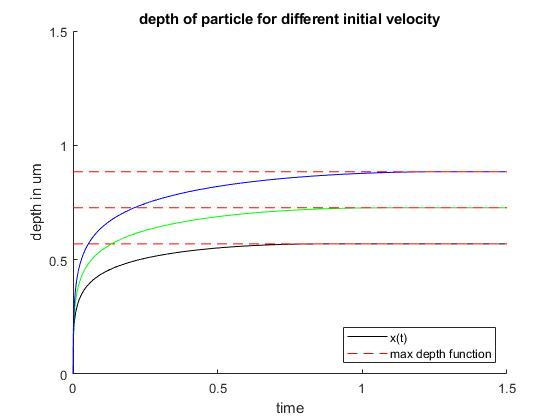
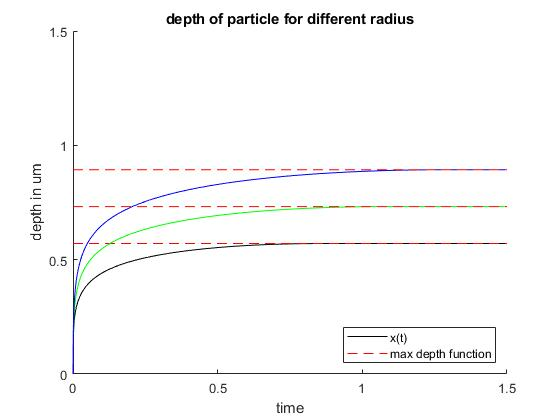
Hopefully the final push

Changed region(s): [[0.1214, 0.4024, 0.9107, 0.7429], [0.2429, 0.031, 0.7893, 0.0619]]

diff --git a/multilayer_models/multilayer_model_deterministic_1p.m b/multilayer_models/multilayer_model_deterministic_1p.m
@@ -14,7 +14,7 @@ ymod_SC = 4; % youngs modulus of stratum corneum in gigapascals
 ymod_VE = 3; % youngs modulus of viable epidermis in gigapascals
 v_0 = 600; % typical entry velocity of particle
 ang = cos(0); % angle of entry 
-r = 2.4074003; % typical particle radius
+r = 1.5; % typical particle radius
 rho_g = 19.32; % density of gold kg/m^3
 c_D = 0.5; % drag coeffecient
 c = 3; % yield constant
@@ -29,52 +29,67 @@ x = zeros(1, length(time));
 pend = 0;
 layer2 = 0;
 
-for i=2:length(time)
-    % check if we are in layer 2
-    if x(i-1) >= depth_SC/100
-         % this is our first entry, so get velocity at this point
-         if layer2 == 0
-            t=i-1;
-            pend = x(i-1);
-            layer2 = 1;
-            v_1 = vel(time(i-1), v_0, rho_g, r, sig_SC, rho_SC, c_D, c);
-            d = pend + max_depth(v_1, rho_g, r, sig_VE, rho_VE, c_D, c, ang);
-         end
-         d_1 = pend + depth(time(i-t), v_1, rho_g, r, sig_VE, rho_VE, c_D, c, ang);
-         if d_1 < x(i-1)
-             x(i) = x(i-1);
-         else
-             x(i) = d_1;
-         end
-    else
-        % in layer 1, so use layer 1 parameters
-        x(i) = depth(time(i), v_0, rho_g, r, sig_SC, rho_SC, c_D, c, ang);
-        if x(i) < x(i-1)
-             x(i) = x(i-1);
-             d = max_depth(v_0, rho_g, r, sig_SC, rho_SC, c_D, c, ang);
+for j=1:3
+    for i=2:length(time)
+        % check if we are in layer 2
+        if x(i-1) >= depth_SC/100
+             % this is our first entry, so get velocity at this point
+             if layer2 == 0
+                t=i-1;
+                pend = x(i-1);
+                layer2 = 1;
+                v_1 = vel(time(i-1), v_0, rho_g, r, sig_SC, rho_SC, c_D, c);
+                d = pend + max_depth(v_1, rho_g, r, sig_VE, rho_VE, c_D, c, ang);
+             end
+             d_1 = pend + depth(time(i-t), v_1, rho_g, r, sig_VE, rho_VE, c_D, c, ang);
+             if d_1 < x(i-1)
+                 x(i) = x(i-1);
+             else
+                 x(i) = d_1;
+             end
+        else
+            % in layer 1, so use layer 1 parameters
+            x(i) = depth(time(i), v_0, rho_g, r, sig_SC, rho_SC, c_D, c, ang);
+            if x(i) < x(i-1)
+                 x(i) = x(i-1);
+                 d = max_depth(v_0, rho_g, r, sig_SC, rho_SC, c_D, c, ang);
+            end
         end
     end
 end
-%{
+d3 = d;
+x3 = x;
+
+%%
+
 hold on
-plot(time, x, '-b')
+test1 = plot(time, x1, '-b')
+test2 = plot(time, x2, '-g')
+test3 = plot(time, x3, '-k')
 hold on
-plotter = ones(1, length(time)) * d;
+plotter1 = ones(1, length(time)) * d1;
+plotter2 = ones(1, length(time)) * d2;
+plotter3 = ones(1, length(time)) * d3;
 depth1 = ones(1, length(time)) * good_depth_upper/100;
 depth2 = ones(1, length(time)) * good_depth_lower/100;
-plot(time, plotter, '--r')
+plot(time, plotter1, '--r')
+plot(time, plotter2, '--r')
+plot(time, plotter3, '--r')
 hold on
-plot(time, depth1, '-g')
-hold on
-plot(time, depth2, '-g')
-title('depth of particle for different initial velocity')
+title('depth of particle for different radius')
 xlabel('time')
 ylabel('depth in um')
-legend('x(t)', 'max depth function', 'Location', 'southeast')
 ylim([0,1.5])
-%}
-good_depth_upper/100 - d
-    
+
+%%
+grid on
+legend([test1, test2, test3], '$v_0 = 400$', '$v_0 = 500$', '$v_0 = 600$','interpreter','latex','FontSize',10);
+title('Depth in the skin where a particle comes to rest','interpreter','latex','FontSize',12)
+xlabel('Time, $t$','interpreter','latex','FontSize',12,'FontWeight', 'bold')
+ylabel('Depth of the skin, $\mu{m}$','interpreter','latex','FontSize',12,'FontWeight', 'bold')
+
+%xlabel('Sparsity $k/n$','interpreter','latex','FontSize',12,'FontWeight', 'bold')
+%ylabel('Number of equations $m/n$','interpreter','latex','FontSize',12,'FontWeight', 'bold')
     
     
     

diff --git a/multilayer_models/multilayer_model_probabilistic_1p.m b/multilayer_models/multilayer_model_probabilistic_1p.m
@@ -13,9 +13,9 @@ sig_VE = 2; % yield stress for viable epidermis in MPA
 mu = 0.89; % water viscosity in micropascals per second
 ymod_SC = 4; % youngs modulus of stratum corneum in gigapascals
 ymod_VE = 3; % youngs modulus of viable epidermis in gigapascals
-v_0 = normrnd(500,51,[1,N]); % typical entry velocity of particle
+v_0 = normrnd(600,51,[1,N]); % typical entry velocity of particle
 ang = cos(normrnd(0,0.01,[1,N])); % angle of entry 
-r = normrnd(1.9,0.5,[1,N]); % normally distributed radius for particles
+r = normrnd(1.8,0.1,[1,N]); % normally distributed radius for particles
 rho_g = 19.32; % density of gold kg/m^3
 c_D = 0.5; % drag coeffecient
 c = 3; % yield constant
@@ -64,18 +64,20 @@ pend = 0;
 layer2 = 0;
 d = zeros(1, N);
 good = 0;
-
+short = 0;
+long = 0;
 for j=1:N
     for i=2:length(time)
         % check if we are in layer 2
         if d(j) >= depth_SC(j)/100
-            if r(j) < 0.
-                pause;
-            end
              v_1 = vel(time(i-1), v_0(j), rho_g, r(j), sig_SC(j), rho_SC, c_D, c);
              d(j) = d(j) + max_depth(v_1, rho_g, r(j), sig_VE, rho_VE, c_D, c, ang(j));
              if d(j) >= good_depth_lower(j)/100 && d(j) <= good_depth_upper(j)/100
                  good = good + 1;
+             elseif d(j) > good_depth_upper(j)/100
+                 long = long + 1;
+             elseif d(j) < good_depth_lower(j)/100
+                 short = short + 1;
              end
              break;
         else
@@ -90,26 +92,38 @@ for j=1:N
     end
 end
 
+% check how many particles landed where
+disp('Particles that landed in the LC zone')
+(good/N*100)
+disp('Particles that landed short of the LC zone')
+short/N*100
+disp('Particles that over shot the LC zone')
+long/N*100
+
 %% plotting routine
 figure(1)
-str = 'Particle depth for normally distributed variables, mean r = 1.9$, (good=' + string(good/N*100) + '%)';
+mean = sum(d)/N
+sd_d = std(d)
 plot([1:N], d, '.')
 hold on 
-plot([1:N], ones(1, N) * (25 + 75 - 10)/100, '-r')
-plot([1:N], ones(1, N) * (25 + 75 - 10 + 13 + 2.6)/100, '-g')
-plot([1:N], ones(1, N) * (25 + 75 - 10 - 13 - 2.6)/100, '-g')
+plot([1:N], ones(1, N) * (25 + 75 - 10)/100, '-r', 'linewidth', 2)
+plot([1:N], ones(1, N) * (25 + 75 - 10 + 13 + 2.6)/100, '-g', 'linewidth', 2)
+plot([1:N], ones(1, N) * mean, '-y', 'linewidth', 2)
+plot([1:N], ones(1, N) * mean+sd_d, '-k', 'linewidth', 2)
+plot([1:N], ones(1, N) * (25 + 75 - 10 - 13 - 2.6)/100, '-g', 'linewidth', 2)
+plot([1:N], ones(1, N) * mean-sd_d, '-k', 'linewidth', 2)
 
-xlabel('particle number')
-ylabel('depth in um')
-legend('Particle', '$\mu$ of LC cell depth', '$\sigma$ of LC depth', ...
-    'interpreter','latex')
-title('Particle depth for normally distributed variables, mean r = 2, (good=' + string(good/N*100) + '%)')
+
+legend('particle', '$\mu_{LC}$ depth', '$\mu_{LC}\pm\sigma_{LC}$ depth', ... 
+    '$\mu_{particle}$ depth', '$\mu_{particle}\pm\sigma_{particle}$ depth', ...
+    'interpreter','latex','FontSize',10, 'Location', 'southeast');
+title('Depth in the skin where a particle comes to rest ($\mu_{v_0}=1200m/s$)', ...
+    'interpreter','latex','FontSize',12)
+xlabel('Simulated Particle, $1:N$','interpreter','latex','FontSize',12,'FontWeight', 'bold')
+ylabel('Depth of the skin, $\mu{m}$','interpreter','latex','FontSize',12,'FontWeight', 'bold')
 ylim([0, 1.5])
 
-    
-    
-    
-    
+good/N * 100
     
     
     
